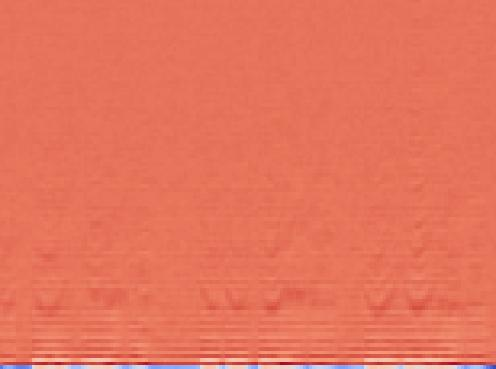
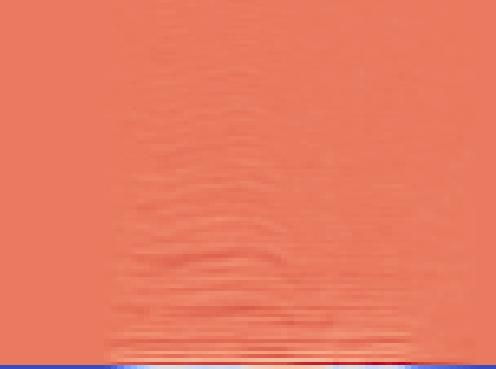
update server

diff --git a/Mobile/App.js b/Mobile/App.js
@@ -1,5 +1,6 @@
 import * as React from 'react';
-import {   SafeAreaView,StyleSheet,View,Text,Image,TouchableOpacity, } from 'react-native';
+import { useState, useRef, useEffect } from 'react';
+import {   SafeAreaView,StyleSheet,View,Text,Image,TouchableOpacity,Alert, } from 'react-native';
 
 
 import { Audio } from 'expo-av';
@@ -7,16 +8,22 @@ import * as DocumentPicker from 'expo-document-picker';
 import * as Sharing from 'expo-sharing';
 import * as MediaLibrary from 'expo-media-library';
 import * as FileSystem from 'expo-file-system';
-// import RNFS from 'react-native-fs';
 import mime from "mime";
 var uri = ""
-// var pasrsedata = ""
 const App = () => {
   let state='unknow'
   const [recording, setRecording] = React.useState();
   const [pasrsedata,setParsedata] = React.useState("unknow");
-  const [clickbutton,setClickbutton] = React.useState("Start record")
-  // const  [uri] = React.useState("");
+  const [clickbutton,setClickbutton] = React.useState("Start record");
+  const [sound, setSound] = React.useState();
+
+  //const [recording, setRecording] = useState(null);
+  const [audio, setAudio] = useState(null);
+  const [isPlaying, setIsPlaying] = useState(false);
+  const recordingRef = useRef();
+
+  const [isRecording, setIsRecording] = useState(false);
+
 
   startRecording = async () => {
     try {
@@ -68,10 +75,29 @@ const App = () => {
     console.log('Stopping recording..');
     setRecording(undefined);
     await recording.stopAndUnloadAsync();
+    setRecording(null);
+    setIsRecording(false);
     uri  =  recording.getURI(); 
-    // uri = "hello"
-    // const UT = recording.getURI(); 
     console.log('Recording stopped and stored at', uri);
+  }
+
+  PlayBack = async () => {
+    if (!uri) { // it is null
+      Alert.alert('Sound not found', 'No record sound file')
+      console.log('No Sound ',uri);
+      return;
+   }
+
+    const sound = new Audio.Sound();
+    try {
+      console.log('Loading Sound ',uri);
+      await sound.loadAsync({ uri });
+      sound.playAsync();
+      setIsPlaying(true);
+      console.log('End Play');
+    } catch (error) {
+      console.error(error);
+    }
   }
 
   Upload = async () => {
@@ -80,7 +106,7 @@ const App = () => {
     var formdata = await new FormData();
 
  
-    formdata.append('image', {
+    formdata.append('file', {
 
       uri : SoundFileUri ,
  
@@ -89,10 +115,8 @@ const App = () => {
       name: SoundFileUri.split("/").pop()
  
      });
-    console.log(formdata);
-    // `http://192.168.1.10:8080/infantcry`
-
-    await fetch(`http://34.102.29.130/infantcry`, {
+    // console.log(formdata);
+    await fetch(`http://192.168.1.1:5000/infantcry`, {
 
         method:'POST',
 
@@ -105,22 +129,18 @@ const App = () => {
     }
     ).then(response => response.text())
     .then(result => {
-      const data =  JSON.parse(result)
-      const reason = data.Reason.substring(20)
-      console.log(data)
-      // str.substring()
-      // pasrsedata = JSON.parse(result)
+      // const data =  JSON.parse(result)
+      // const reason = data.Reason.substring(20)
+      const reason = "cry";
+      console.log(result)
       setParsedata(reason)
-      // setParsedata("String")
-      // console.log(result)
-      // console.log(pasrsedata)
-      // console.log(result.Reason)
     }
     
     )
     .catch(error => console.log('error', error));
 
     }
+
 
     HandlePress = () => {
       setClickbutton(clickbutton === 'Start record' ? 'Stop record' : 'Start record');
@@ -133,27 +153,9 @@ const App = () => {
       }
     };
 
-  // return (
-  //   <View style={styles.container}>
-  //     <Button
-  //       title={recording ? 'Stop Recording' : 'Start Recording'}
-  //       onPress={recording ? stopRecording : startRecording}
-  //     />
-  //     <Text>{uri}</Text>
-  //      <Button style={styles.button} onPress={ this.Mediasave } title="Share"></Button>
-  //      {/* <Button style={styles.button} onPress={ this.upload } title="upload"></Button> */}
-  //      <Button title="upload to server" onPress={this.Upload}/>
-  //      {/* <Text>{pasrsedata.Reason}</Text> */}
-  //   </View>
-  // );
-
   return (
     <SafeAreaView style={{ flex: 1 }}>
       <View style={styles.container}>
-
-        {/* <Image source={{
-          uri: 'https://png.pngtree.com/thumb_back/fh260/background/20200821/pngtree-simple-light-blue-background-image_396574.jpg',
-        }}  style={styles.decorationImage1} /> */}
 
         <Image source={{
           uri: 'https://wallpaperaccess.com/full/676550.jpg',
@@ -186,6 +188,15 @@ const App = () => {
         activeOpacity={0.8} onPress={this.Upload}  >
           <Text style={styles.buttonTextStyle2}>Predict Crying</Text>
         </TouchableOpacity>
+
+
+        <TouchableOpacity style={styles.button3} 
+        activeOpacity={0.8} onPress={this.PlayBack}  >
+          <Text style={styles.buttonTextStyle2}>Playback</Text>
+        </TouchableOpacity>
+        
+        
+     
 
       </View>
     </SafeAreaView>
@@ -253,6 +264,17 @@ const styles = StyleSheet.create({
     borderRadius: 20,
     marginTop: 40,
   },
+  button3: {
+    flexDirection: 'row',
+    alignItems: 'center',
+    backgroundColor: '#F72585',
+    borderWidth: 0.5,
+    borderColor: '#fff',
+    height: 64,
+    width: 220,
+    borderRadius: 20,
+    marginTop: 40,
+  },
 buttonTextStyle2: {
     color: 'white',
     marginBottom: 4,
@@ -284,4 +306,3 @@ buttonTextStyle2: {
     top: 300,  
   },
 });
-

diff --git a/Server/app/model/classification.py b/Server/app/model/classification.py
@@ -6,22 +6,27 @@ class AudioModel:
         self.audio = []
         self.model_path = model_path
         ## load model
-        self.model = []
+        self.model = {}
         # self.model_phase_1 = load_model(model_path)
     def load_model(self,model_name):
+        
         for name in model_name:
-            self.model.append(load_model(f'{self.model_path}/{name}'))
+            # self.model.append(load_model(f'{self.model_path}/{name}'))
+            model_key = f'{name.split(".")[0]}'
+            if  model_key not in self.model:
+                model_temp = load_model(f'{self.model_path}/{name}')
+                self.model[model_key] = model_temp
 
     def predict(self,auido_predict):
         class_name = ['burping', 'discomfort', 'hungry', 'poop', 'tired']
-        pred = self.model.predict(auido_predict)
+        pred = self.model['mel_model'].predict(auido_predict)
         index = np.argmax(pred, axis=1)
         reason = class_name[index[0]]
         return  reason
 
     def predict_phase_1(self,audio_predict):
         class_name = ["type1","type2"]
-        pred = self.model[0].predict(audio_predict)
+        pred = self.model['SplitClass'].predict(audio_predict)
         index = np.argmax(pred, axis=1)
         reason = class_name[index[0]]
         return  reason
@@ -30,10 +35,10 @@ class AudioModel:
         model_num = 4
         if type == "type1":
             class_name = ["burp","poop"]
-            model_num = 1
+            model_key = 'BurpAndPoop'
         elif type == "type2":
             class_name = ["discomfort","hungry","tried"]
-            model_num  = 2
+            model_num  = 'HungryTiredAndDiscomfort'
         else :
             class_name = ["error","error"]
 

diff --git a/Server/app/route.py b/Server/app/route.py
@@ -27,8 +27,46 @@ def hello_world():
     return 'Hello World!'
 
 
-@app.route('/infantcry', methods=['POST', 'GET'])
-def infantcry():
+@app.route('/infantcry1', methods=['POST', 'GET'])
+def infantcry1():
+    if request.method == 'GET':
+        return {"Message": "hello infantcry testing GET Method 1"}
+
+    elif request.method == 'POST':
+
+
+        if 'file' not in request.files: 
+            print("no file part")
+            return {"Message" : "key name must be file"}
+
+        files =  request.files['file']
+        
+        if files :
+            filename = secure_filename(files.filename)
+            files.save(os.path.join(app.config["audio_upload"], filename))
+        else:
+            print("file not found")
+            return { "Message" : "file not found pls check your file and upload again"}
+
+        convert_type(filename) ## convert type to .wav
+
+        # preprocessing
+        audio = AudioFeature(sound_dir=app.config["audio_upload"], image_dir=image_dir)
+        audio.load_audio_files(filename)
+        input_audio = audio.load_audio_predict(phase_no = 2)
+
+        ## predict model
+        model = AudioModel(model_path)
+        model.load_model(["mel_model.h5"])
+        
+        output = model.predict(input_audio)
+        
+        target = output
+        return {   "audio": f'{filename}',
+                "Reason": f'baby crying because {target}'}, 201
+
+@app.route('/infantcry2', methods=['POST', 'GET'])
+def infantcry2():
     if request.method == 'GET':
         return {"Message": "hello infantcry testing GET Method"}
 

diff --git a/Server/app/preprocessing/transform.py b/Server/app/preprocessing/transform.py
@@ -37,12 +37,14 @@ class AudioTransform:
         return waveformdb
 
     def mel_spectrogram(self):
+        
         n_fft = 2048
         hop_length = 128
-        audio_stft = librosa.feature.melspectrogram(y=self.waveform, n_fft=n_fft, hop_length=hop_length)
+        # audio_stft = librosa.feature.melspectrogram(y=self.waveform, n_fft=n_fft, hop_length=hop_length)
+        audio_stft = librosa.feature.melspectrogram(y=self.waveform,n_fft=n_fft,hop_length=hop_length,fmin = 20,fmax =  self.sample_rate//2)
         log_spectro = librosa.power_to_db(audio_stft)
-        librosa.display.specshow(log_spectro, sr=self.sample_rate, x_axis='time', y_axis='fft', cmap='magma')
-
+        # librosa.display.specshow(log_spectro, sr=self.sample_rate, x_axis='time', y_axis='fft', cmap='magma')
+        
         return log_spectro
 
     def rms(self):

diff --git a/Server/app/preprocessing/audio.py b/Server/app/preprocessing/audio.py
@@ -40,6 +40,7 @@ class AudioFeature:
         # create image_dir
         # create folder if path does not exit
         Path(f'./{self.image_dir}/type_{phase_no}').mkdir(parents=True, exist_ok=True)
+        plt.switch_backend('agg')
         
 
         

diff --git a/Server/run.py b/Server/run.py
@@ -1,3 +1,3 @@
 from app import app
 if __name__ == "__main__":
-    app.run()
+    app.run(host='0.0.0.0', port=80)
